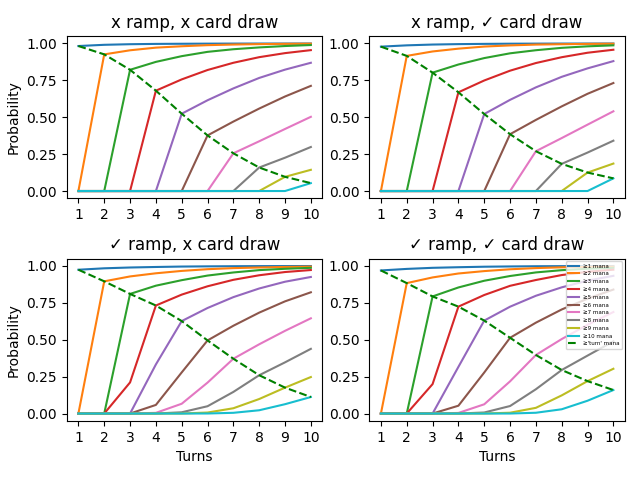
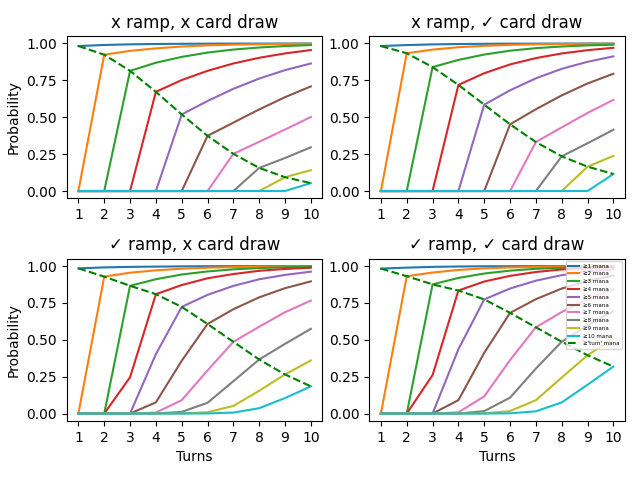
Fix incorrect input + figures

diff --git a/main.py b/main.py
@@ -10,22 +10,13 @@ draw_package += 1*[Card("Divination",    cost=3, draw_sequence=Sequence.once(2))
 draw_package += [Card("Phyrexian Arena", cost=3, draw_sequence=Sequence.one.prefixed_by([0]))]
 
 decks = []
+decks.append(["x ramp, x card draw", lands[:]])
+decks.append(["x ramp, ✓ card draw", lands[:] + draw_package[:]])
+decks.append(["✓ ramp, x card draw", lands[:] + ramp_package[:]])
+decks.append(["✓ ramp, ✓ card draw", lands[:] + ramp_package[:] + draw_package[:]])
 
-deck = lands
-deck += (99-len(deck))*[Card.filler]
-decks.append(["x ramp, x card draw", deck])
-
-deck = lands + draw_package
-deck += (99-len(deck))*[Card.filler]
-decks.append(["x ramp, ✓ card draw", deck])
-
-deck = lands + ramp_package
-deck += (99-len(deck))*[Card.filler]
-decks.append(["✓ ramp, x card draw", deck])
-
-deck = lands + ramp_package + draw_package
-deck += (99-len(deck))*[Card.filler]
-decks.append(["✓ ramp, ✓ card draw", deck])
+for _,deck in decks:
+    deck += (99-len(deck))*[Card.filler]
 
 import numpy as np
 import matplotlib.pyplot as plt
